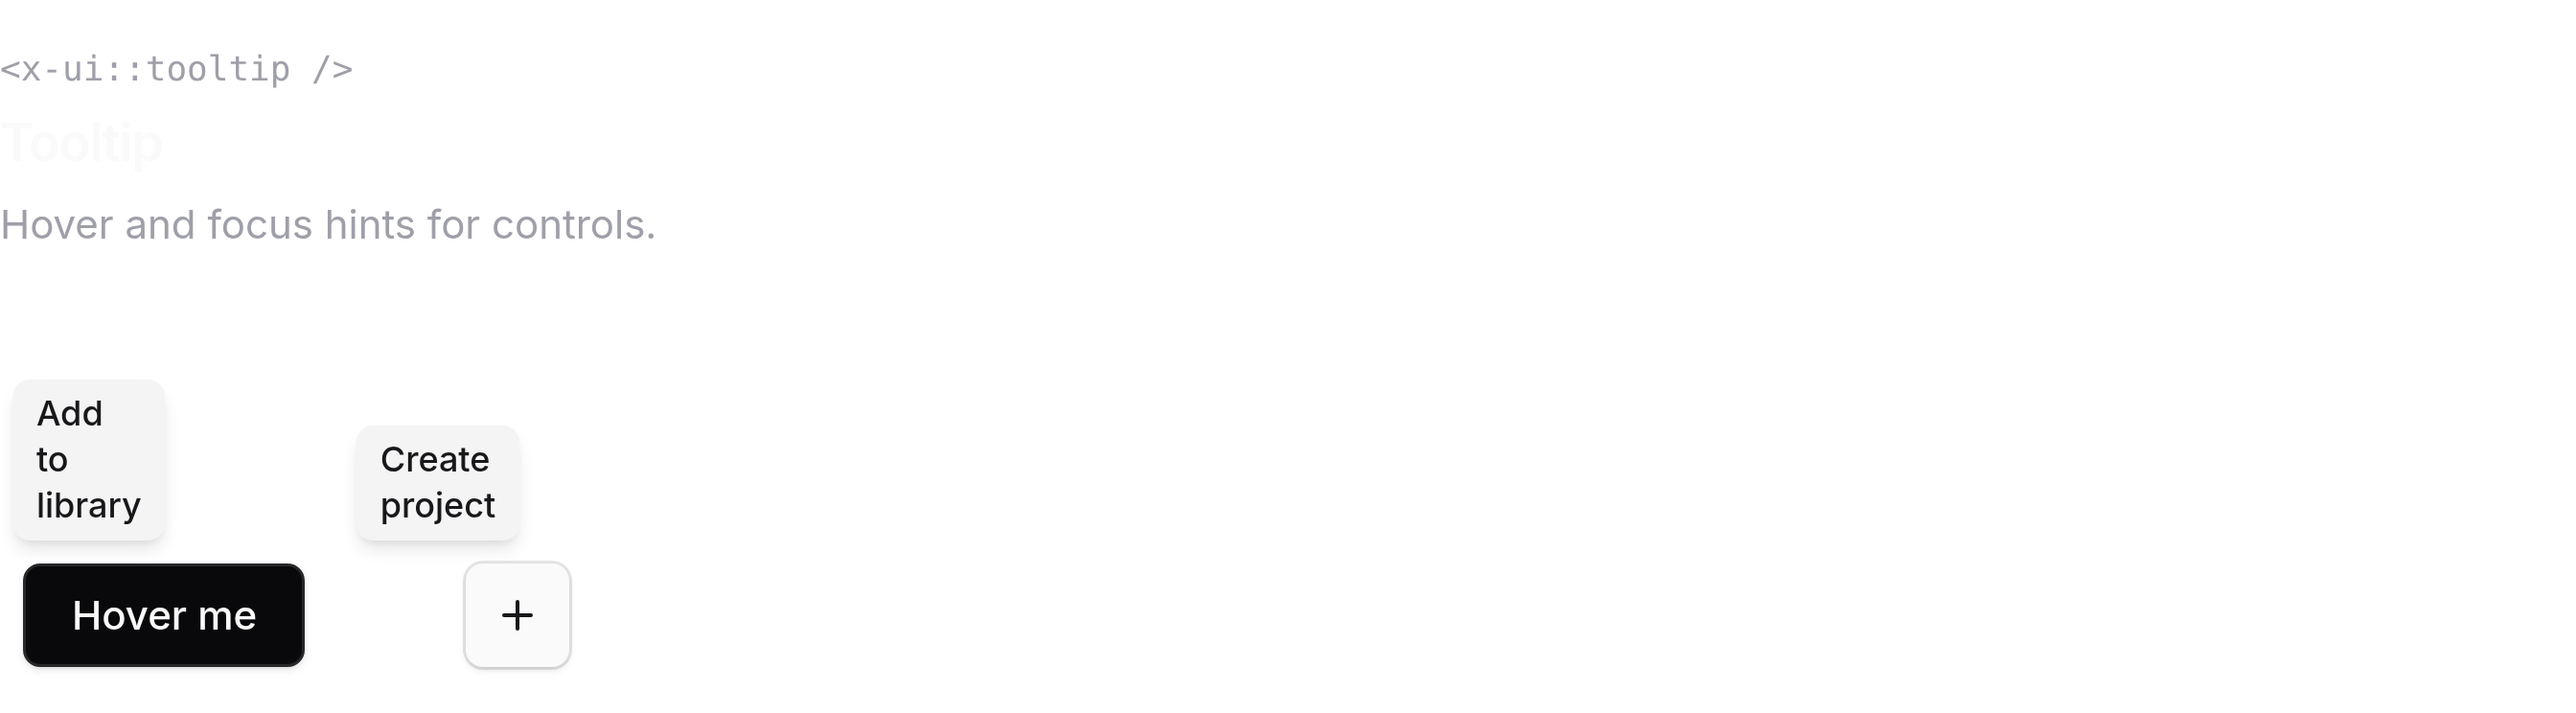
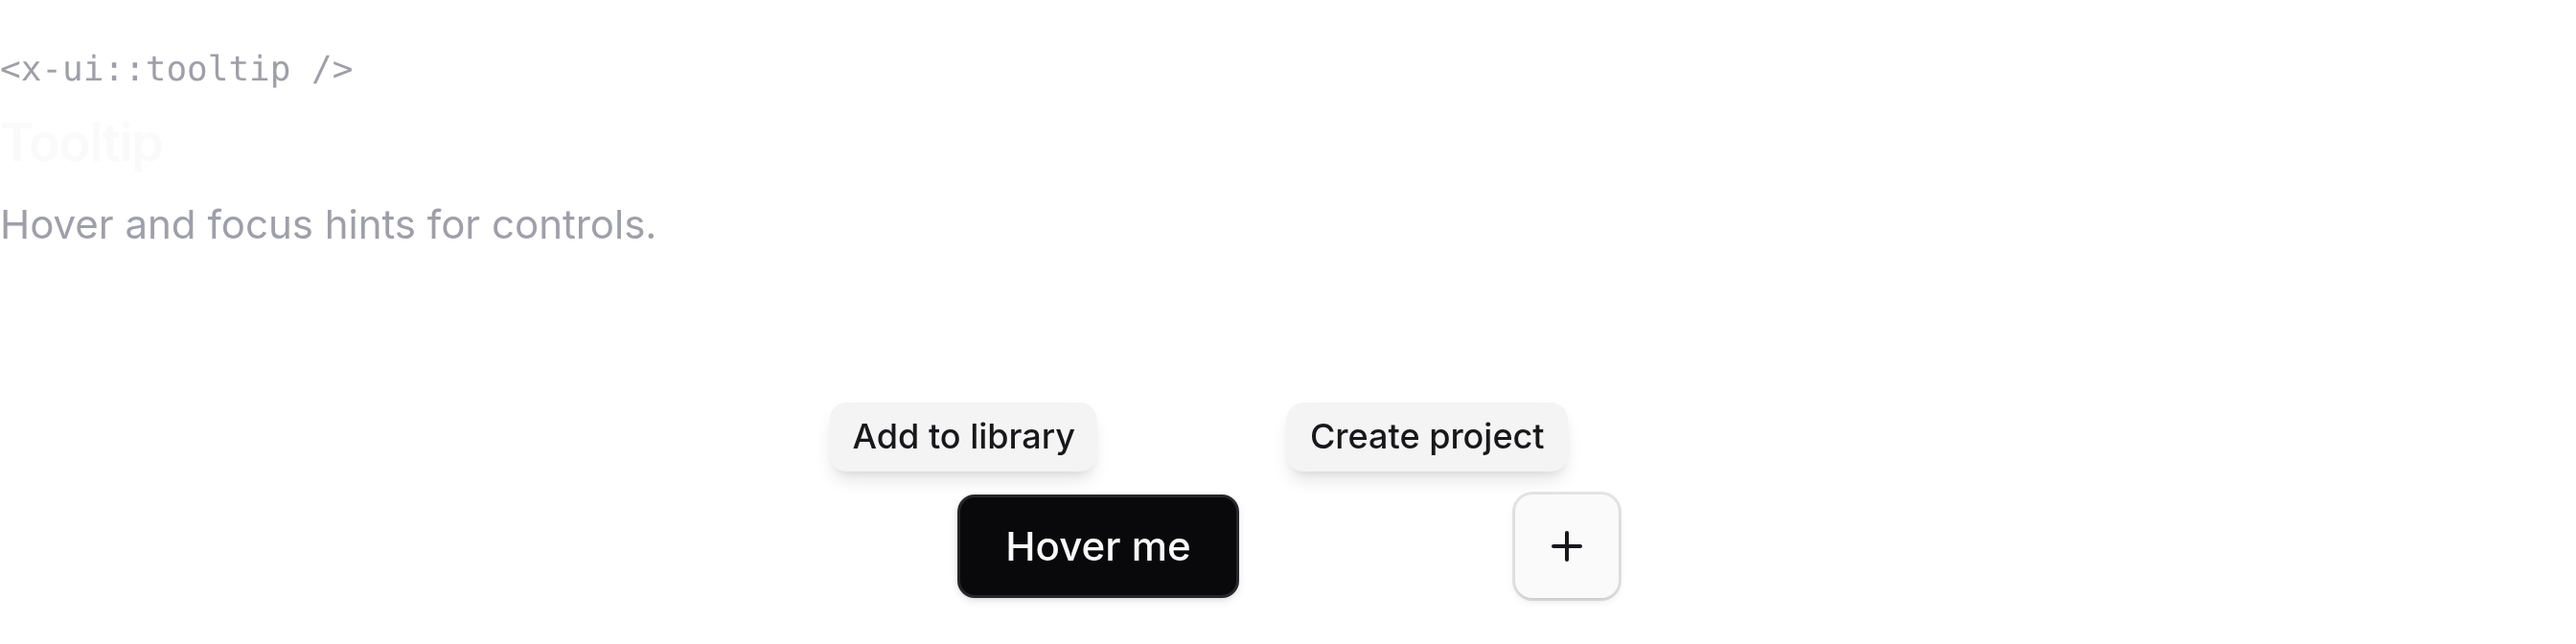
Enhance README and CHANGELOG with new media captures and component adjustments
- Added media captures for `input-currency`, `combobox`, `file-upload`, `repeater`, `pillbox`, `rating`, `color-picker`, `input-otp`, and `slider` in README.md.
- Updated `dialog` preview to remove fixed positioning, ensuring media panels are centered.
- Adjusted `tooltip` content to include `w-max` and `whitespace-nowrap` for better display in narrow containers.
- Reflected these changes in CHANGELOG.md for tracking updates.

diff --git a/resources/views/components/dialog/content.blade.php b/resources/views/components/dialog/content.blade.php
@@ -58,6 +58,15 @@
 @endphp
 
 @if ($isPreview)
+    @php
+        $previewPanelClasses = collect([
+            'dialog__content',
+            'relative z-10 w-full rounded-xl border border-zinc-200 bg-white p-0 text-zinc-950 shadow-xl',
+            'dark:border-zinc-800 dark:bg-zinc-950 dark:text-zinc-50',
+            $size === 'sm' ? 'max-w-sm' : 'max-w-lg',
+        ])->implode(' ');
+    @endphp
+
     <div {{
         $attributes->class([
             'dialog__preview',
@@ -70,11 +79,7 @@
         ></div>
 
         <div
-            @class([
-                ...$dialogClasses->reject(fn (string $class): bool => str_contains($class, 'fixed') || str_contains($class, 'opacity-0') || str_contains($class, 'open:') || str_contains($class, 'motion-safe:') || str_contains($class, 'backdrop:'))->all(),
-                'relative z-10 w-full rounded-xl border border-zinc-200 bg-white shadow-xl dark:border-zinc-800 dark:bg-zinc-950',
-                $size === 'sm' ? 'max-w-sm' : 'max-w-lg',
-            ])
+            class="{{ $previewPanelClasses }}"
             role="{{ $alert ? 'alertdialog' : 'dialog' }}"
             aria-modal="true"
             aria-labelledby="{{ $titleId }}"

diff --git a/workbench/resources/views/playbook/media/tooltip.blade.php b/workbench/resources/views/playbook/media/tooltip.blade.php
@@ -10,8 +10,8 @@
             <x-stencil::text size="sm" variant="subtle">Hover and focus hints for controls.</x-stencil::text>
         </div>
 
-        <div class="flex flex-wrap items-end gap-10 pt-8">
-            <div class="relative inline-flex min-h-[4.5rem] items-end justify-center px-2">
+        <div class="flex flex-wrap items-end justify-center overflow-visible px-16 pt-12" style="gap: 6rem;">
+            <div class="relative inline-flex min-h-[5rem] items-end justify-center">
                 <x-stencil::tooltip side="top">
                     <x-stencil::tooltip.trigger>
                         <x-stencil::button variant="outline">Hover me</x-stencil::button>
@@ -27,7 +27,7 @@
                 </x-stencil::tooltip>
             </div>
 
-            <div class="relative inline-flex min-h-[4.5rem] items-end justify-center px-2">
+            <div class="relative inline-flex min-h-[5rem] items-end justify-center">
                 <x-stencil::tooltip side="top">
                     <x-stencil::tooltip.trigger>
                         <x-stencil::button variant="primary" square>

diff --git a/workbench/resources/views/playbook/media/input-currency.blade.php b/workbench/resources/views/playbook/media/input-currency.blade.php
@@ -1,8 +1,27 @@
-<x-stencil::input.currency
-    name="amount"
-    :value="1234.56"
-    currency="BRL"
-    locale="pt_BR"
-    :precision="2"
-    placeholder="0,00"
-/>
+@extends('workbench::playbook.media.layout')
+
+@section('title', 'Input Currency — Stencil')
+
+@section('content')
+    <div class="space-y-10">
+        <div class="space-y-1">
+            <p class="font-mono text-xs text-zinc-500 dark:text-zinc-400">&lt;x-ui::input.currency /&gt;</p>
+            <x-stencil::heading :level="2">Input Currency</x-stencil::heading>
+            <x-stencil::text size="sm" variant="subtle">
+                Locale-aware currency field with a decimal submit value.
+            </x-stencil::text>
+        </div>
+
+        <div class="max-w-sm space-y-3">
+            <x-stencil::input.currency
+                name="amount"
+                :value="1234.56"
+                currency="BRL"
+                locale="pt_BR"
+                :precision="2"
+                placeholder="0,00"
+                class="w-full"
+            />
+        </div>
+    </div>
+@endsection

diff --git a/workbench/resources/views/playbook/media/dialog.blade.php b/workbench/resources/views/playbook/media/dialog.blade.php
@@ -14,7 +14,7 @@
 
         <div class="space-y-3">
             <x-stencil::text size="sm" variant="subtle">Form dialog</x-stencil::text>
-            <x-stencil::dialog.content preview class="w-full min-w-[min(100%,42rem)]">
+            <x-stencil::dialog.content preview>
                 <x-stencil::dialog.header>
                     <x-stencil::dialog.title>Update profile</x-stencil::dialog.title>
                     <x-stencil::dialog.description>
@@ -32,7 +32,7 @@
 
         <div class="space-y-3">
             <x-stencil::text size="sm" variant="subtle">Alert dialog · small</x-stencil::text>
-            <x-stencil::dialog.content preview size="sm" :alert="true" class="w-full min-w-[min(100%,42rem)]">
+            <x-stencil::dialog.content preview size="sm" :alert="true">
                 <x-stencil::dialog.header>
                     <x-stencil::dialog.title>Delete project?</x-stencil::dialog.title>
                     <x-stencil::dialog.description>

diff --git a/tests/Feature/DialogComponentTest.php b/tests/Feature/DialogComponentTest.php
@@ -70,6 +70,25 @@ it('renders flyout dialog positioning classes', function () {
         ->toContain('left-0');
 });
 
+it('centers preview panels without fixed positioning offsets', function () {
+    $html = Blade::render(<<<'BLADE'
+        <x-stencil::dialog.content preview>
+            <x-stencil::dialog.title>Preview</x-stencil::dialog.title>
+        </x-stencil::dialog.content>
+    BLADE);
+
+    expect($html)
+        ->toContain('dialog__preview')
+        ->toContain('data-dialog-preview')
+        ->toContain('items-center')
+        ->toContain('justify-center')
+        ->toContain('max-w-lg')
+        ->not->toContain('left-1/2')
+        ->not->toContain('-translate-x-1/2')
+        ->not->toContain('top-1/2')
+        ->not->toContain('fixed');
+});
+
 it('renders dialog cancel helper with close behavior', function () {
     $html = Blade::render('<x-stencil::dialog.cancel>Cancel</x-stencil::dialog.cancel>');
 

diff --git a/workbench/routes/web.php b/workbench/routes/web.php
@@ -13,7 +13,7 @@ Route::get('/playbook/media/{component}', [PlaybookMediaController::class, 'show
     ->name('playbook.media.show')
     ->where(
         'component',
-        'buttons|input|select|typography|icons|label|field|textarea|checkbox|radio|switch|dialog|combobox|file-upload|repeater|pillbox|rating|color-picker|input-otp|slider|accordion|collapsible|avatar|badge|breadcrumb|card|dropdown-menu|separator|skeleton|tabs|tooltip|toast|progress|alert|table|pagination',
+        'buttons|input|input-currency|select|typography|icons|label|field|textarea|checkbox|radio|switch|dialog|combobox|file-upload|repeater|pillbox|rating|color-picker|input-otp|slider|accordion|collapsible|avatar|badge|breadcrumb|card|dropdown-menu|separator|skeleton|tabs|tooltip|toast|progress|alert|table|pagination',
     );
 
 Route::get('/playbook/{component}', [PlaybookController::class, 'show'])

diff --git a/resources/views/components/tooltip/content.blade.php b/resources/views/components/tooltip/content.blade.php
@@ -13,7 +13,7 @@
 <span {{
     $attributes->class([
         'tooltip__content',
-        'pointer-events-none z-50 max-w-xs rounded-md bg-zinc-900 px-2 py-1 text-xs font-medium text-zinc-50 shadow-md',
+        'pointer-events-none z-50 w-max max-w-xs whitespace-nowrap rounded-md bg-zinc-900 px-2 py-1 text-xs font-medium text-zinc-50 shadow-md',
         'dark:bg-zinc-100 dark:text-zinc-900',
         'hidden data-[state=open]:block',
     ])->merge([

diff --git a/tests/Feature/TooltipComponentTest.php b/tests/Feature/TooltipComponentTest.php
@@ -19,6 +19,8 @@ it('renders a tooltip with trigger and content', function () {
         ->toContain('data-side="bottom"')
         ->toContain('data-tooltip-trigger')
         ->toContain('role="tooltip"')
+        ->toContain('w-max')
+        ->toContain('whitespace-nowrap')
         ->toContain('Add to library')
         ->toContain('Hover');
 });

diff --git a/workbench/app/Http/Controllers/PlaybookMediaController.php b/workbench/app/Http/Controllers/PlaybookMediaController.php
@@ -15,6 +15,7 @@ final class PlaybookMediaController
     private const array COMPONENTS = [
         'buttons',
         'input',
+        'input-currency',
         'select',
         'typography',
         'icons',

diff --git a/README.md b/README.md
@@ -200,6 +200,12 @@ php artisan stencil:add input icon select switch
 
 Formatted currency display aligned with Laravel [`Number::currency`](https://laravel.com/docs/helpers#method-number-currency). The visible field shows locale-aware formatting; a hidden input submits a decimal string your backend can cast to `float` (for example `(float) $request->input('amount')`). Default `mode` is `cents` (digit mask). Requires the `intl` PHP extension. `stencil:add input-currency` copies `input-currency.js` and patches your Vite entry.
 
+<picture>
+  <source media="(prefers-color-scheme: dark)" srcset="docs/images/input-currency-dark.png">
+  <source media="(prefers-color-scheme: light)" srcset="docs/images/input-currency-light.png">
+  <img src="docs/images/input-currency-light.png" alt="Input Currency" />
+</picture>
+
 ```blade
 <x-ui::field name="amount">
     <x-ui::field.label>Amount</x-ui::field.label>
@@ -452,6 +458,12 @@ Accessible filterable combobox / autocomplete (WAI-ARIA combobox + listbox). Sub
 
 Default `shortcut` wraps items with `combobox.input`, `combobox.content`, and `combobox.empty`. Set `:shortcut="false"` for full composition. Works inside `field` (inherits `invalid` / Laravel `$errors`).
 
+<picture>
+  <source media="(prefers-color-scheme: dark)" srcset="docs/images/combobox-dark.png">
+  <source media="(prefers-color-scheme: light)" srcset="docs/images/combobox-light.png">
+  <img src="docs/images/combobox-light.png" alt="Combobox" />
+</picture>
+
 ```blade
 <x-ui::combobox name="framework" placeholder="Search frameworks…">
     <x-ui::combobox.group>
@@ -507,6 +519,12 @@ Accessible file upload with a drag-and-drop dropzone, selected-file list, and cl
 
 Default `shortcut` renders a dropzone (customize via the slot or `heading` / `text` props), a file list, and an item template for the script. Set `:shortcut="false"` for full composition. Use `multiple` for multi-file fields (name is normalized to `name[]` when needed). Works inside `field` (inherits `invalid` / Laravel `$errors`).
 
+<picture>
+  <source media="(prefers-color-scheme: dark)" srcset="docs/images/file-upload-dark.png">
+  <source media="(prefers-color-scheme: light)" srcset="docs/images/file-upload-light.png">
+  <img src="docs/images/file-upload-light.png" alt="File Upload" />
+</picture>
+
 ```blade
 <x-ui::file-upload name="avatar" accept="image/*" text="PNG or JPG up to 5MB" />
 
@@ -543,6 +561,12 @@ php artisan stencil:add file-upload
 Composition-first repeater for dynamic Laravel array fields. Subcomponents include `item`, `add`, and `remove`. `stencil:add repeater` copies `repeater.js` and patches your Vite entry.
 
 Declare one `repeater.item` row template with `data-repeater-field` on each control. The script clones rows, reindexes `name="members[0][field]"` attributes, and hydrates from `:value` / `old()`. Use `min` / `max` to control row limits. Works inside `field` (inherits `invalid` / Laravel `$errors`).
+
+<picture>
+  <source media="(prefers-color-scheme: dark)" srcset="docs/images/repeater-dark.png">
+  <source media="(prefers-color-scheme: light)" srcset="docs/images/repeater-light.png">
+  <img src="docs/images/repeater-light.png" alt="Repeater" />
+</picture>
 
 ```blade
 <x-ui::repeater name="members" :value="old('members', [])" :min="1" :max="10">
@@ -591,6 +615,12 @@ php artisan stencil:add repeater
 ## Pillbox
 
 Free-text tags input. Submits multiple strings as `name[]`. Enter or comma adds a tag; Backspace on empty input or chip remove button deletes. `stencil:add pillbox` copies `pillbox.js`.
+
+<picture>
+  <source media="(prefers-color-scheme: dark)" srcset="docs/images/pillbox-dark.png">
+  <source media="(prefers-color-scheme: light)" srcset="docs/images/pillbox-light.png">
+  <img src="docs/images/pillbox-light.png" alt="Pillbox" />
+</picture>
 
 ```blade
 <x-ui::pillbox name="tags" :value="old('tags', [])" placeholder="Add tags…" :max="10" />
@@ -655,6 +685,12 @@ Pass `multiple` with `display="count"` or `display="chips"`. Hidden inputs use `
 
 Star rating with numeric hidden value. `stencil:add rating` copies `rating.js`.
 
+<picture>
+  <source media="(prefers-color-scheme: dark)" srcset="docs/images/rating-dark.png">
+  <source media="(prefers-color-scheme: light)" srcset="docs/images/rating-light.png">
+  <img src="docs/images/rating-light.png" alt="Rating" />
+</picture>
+
 ```blade
 <x-ui::rating name="score" :value="3" :max="5" />
 ```
@@ -666,6 +702,12 @@ Star rating with numeric hidden value. `stencil:add rating` copies `rating.js`.
 SV canvas, hue slider, Tailwind swatches, and hex field in a popover. Subcomponents include `trigger`, `hex`, `content`, `area`, `hue`, `dropper`, `swatches`, and `swatch`. `stencil:add color-picker` copies `color-picker.js`.
 
 Default `shortcut` composes the trigger and popover tree. Use `:dropper="true"` or `:swatches="false"` on the root, or nest parts explicitly with `:shortcut="false"`.
+
+<picture>
+  <source media="(prefers-color-scheme: dark)" srcset="docs/images/color-picker-dark.png">
+  <source media="(prefers-color-scheme: light)" srcset="docs/images/color-picker-light.png">
+  <img src="docs/images/color-picker-light.png" alt="Color Picker" />
+</picture>
 
 ```blade
 <x-ui::color-picker name="brand_color" value="#3366cc" />
@@ -735,6 +777,12 @@ Accessible one-time password / PIN input with labeled slots, paste support, and 
 
 Default `shortcut` renders slots for `length` (default `6`). Even lengths ≥ 4 include a middle separator unless you set `:separated="false"`. Use `mode="numeric"` (default) or `mode="alphanumeric"`. Set `:shortcut="false"` for full composition. Works inside `field` (inherits `invalid` / Laravel `$errors`).
 
+<picture>
+  <source media="(prefers-color-scheme: dark)" srcset="docs/images/input-otp-dark.png">
+  <source media="(prefers-color-scheme: light)" srcset="docs/images/input-otp-light.png">
+  <img src="docs/images/input-otp-light.png" alt="Input OTP" />
+</picture>
+
 ```blade
 <x-ui::input-otp name="code" />
 
@@ -778,6 +826,12 @@ php artisan stencil:add input-otp
 Accessible slider and dual-thumb range control (WAI-ARIA `role="slider"`). Subcomponents include `track`, `range`, and `thumb`. `stencil:add slider` copies `slider.js` and patches your Vite entry. A hidden input carries the value for form submit (`name`); range mode emits `name[0]` / `name[1]`.
 
 Supports `min` (default `0`), `max` (default `100`), `step` (default `1`), `value` (number or `[low, high]`), and `:range="true"` for two thumbs. Keyboard: arrows, Home/End, PageUp/Down. Set `:shortcut="false"` for full composition. Works inside `field` (inherits `invalid` / Laravel `$errors`).
+
+<picture>
+  <source media="(prefers-color-scheme: dark)" srcset="docs/images/slider-dark.png">
+  <source media="(prefers-color-scheme: light)" srcset="docs/images/slider-light.png">
+  <img src="docs/images/slider-light.png" alt="Slider" />
+</picture>
 
 ```blade
 <x-ui::slider name="volume" :value="40" />

diff --git a/CHANGELOG.md b/CHANGELOG.md
@@ -8,6 +8,9 @@
 
 ### Changed
 
+- README screenshots — added media captures for `input-currency`, `combobox`, `file-upload`, `repeater`, `pillbox`, `rating`, `color-picker`, `input-otp`, and `slider`.
+- `dialog` preview — strip fixed positioning so media panels stay centered.
+- `tooltip` content — `w-max whitespace-nowrap` so hints don’t collapse in narrow containers.
 - `input` `mask` — custom pattern (`#` = digit, `A` = letter); removed `phone` / `document` presets.
 - `color-picker` — compound sub-components (`trigger`, `hex`, `content`, `area`, `hue`, `dropper`, `swatches`, `swatch`) with default `shortcut`; flat `dropper` / `swatches` props compose the same parts.
 - `date-picker` — panel sub-components (`panel`, `presets`, `manual-inputs`, `footer`); `withPresets`, `withInputs`, and `withConfirmation` compose those parts in shortcut mode.
